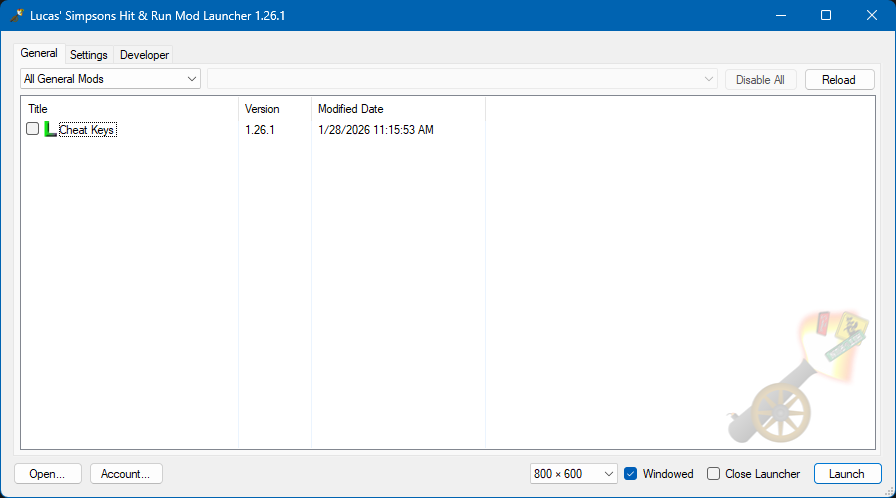
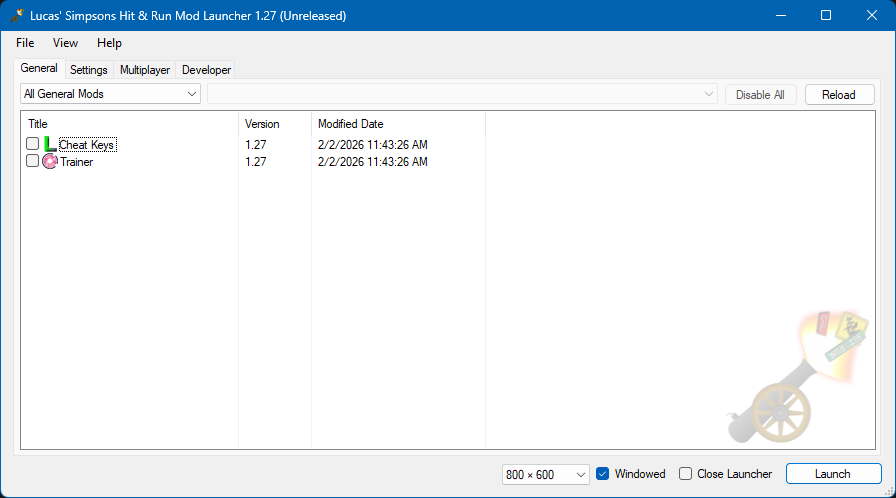
feat(LML): 1.27 Launcher > Main Window Changes

diff --git a/docs/LucasSimpsonsHitAndRunModLauncher/VersionHistory/Version_1.27.md b/docs/LucasSimpsonsHitAndRunModLauncher/VersionHistory/Version_1.27.md
@@ -17,3 +17,10 @@ authors: [ 2 ]
 	* This affects the obscure `-apiurl` and obscure `-updatecheckurl` [[../CommandLineArguments.md]] that pretty much only exist for internal testing.
 * Changed the encoding used when reading text files from ANSI to UTF8.
 * Made it so, when loading mods, `[PathHandlers]` in `CustomFiles.ini` are validated to ensure that the handler script exists.
+
+## Main Window
+* Made it so the "Launch" button is now disabled when the game is attempting to launch and re-enabled when this either succeeds or fails.
+* Made it so when Multiplayer is enabled the "Launch" will instead read "Play Multiplayer".
+* Redesigned the main window with a tool strip at the top, containing "File", "View" and "Help" menus.
+	* This tool strip replaces the "Open..." and "Account..." buttons previously, found on the main window, to follow a more universally understood design for programs.
+* Fixed a bug where right clicking a mod setting hack that's also requirable by mods and choosing **Copy Require Line** would copy `RequiredMod=HackName` instead of `RequiredHack=HackName`.
